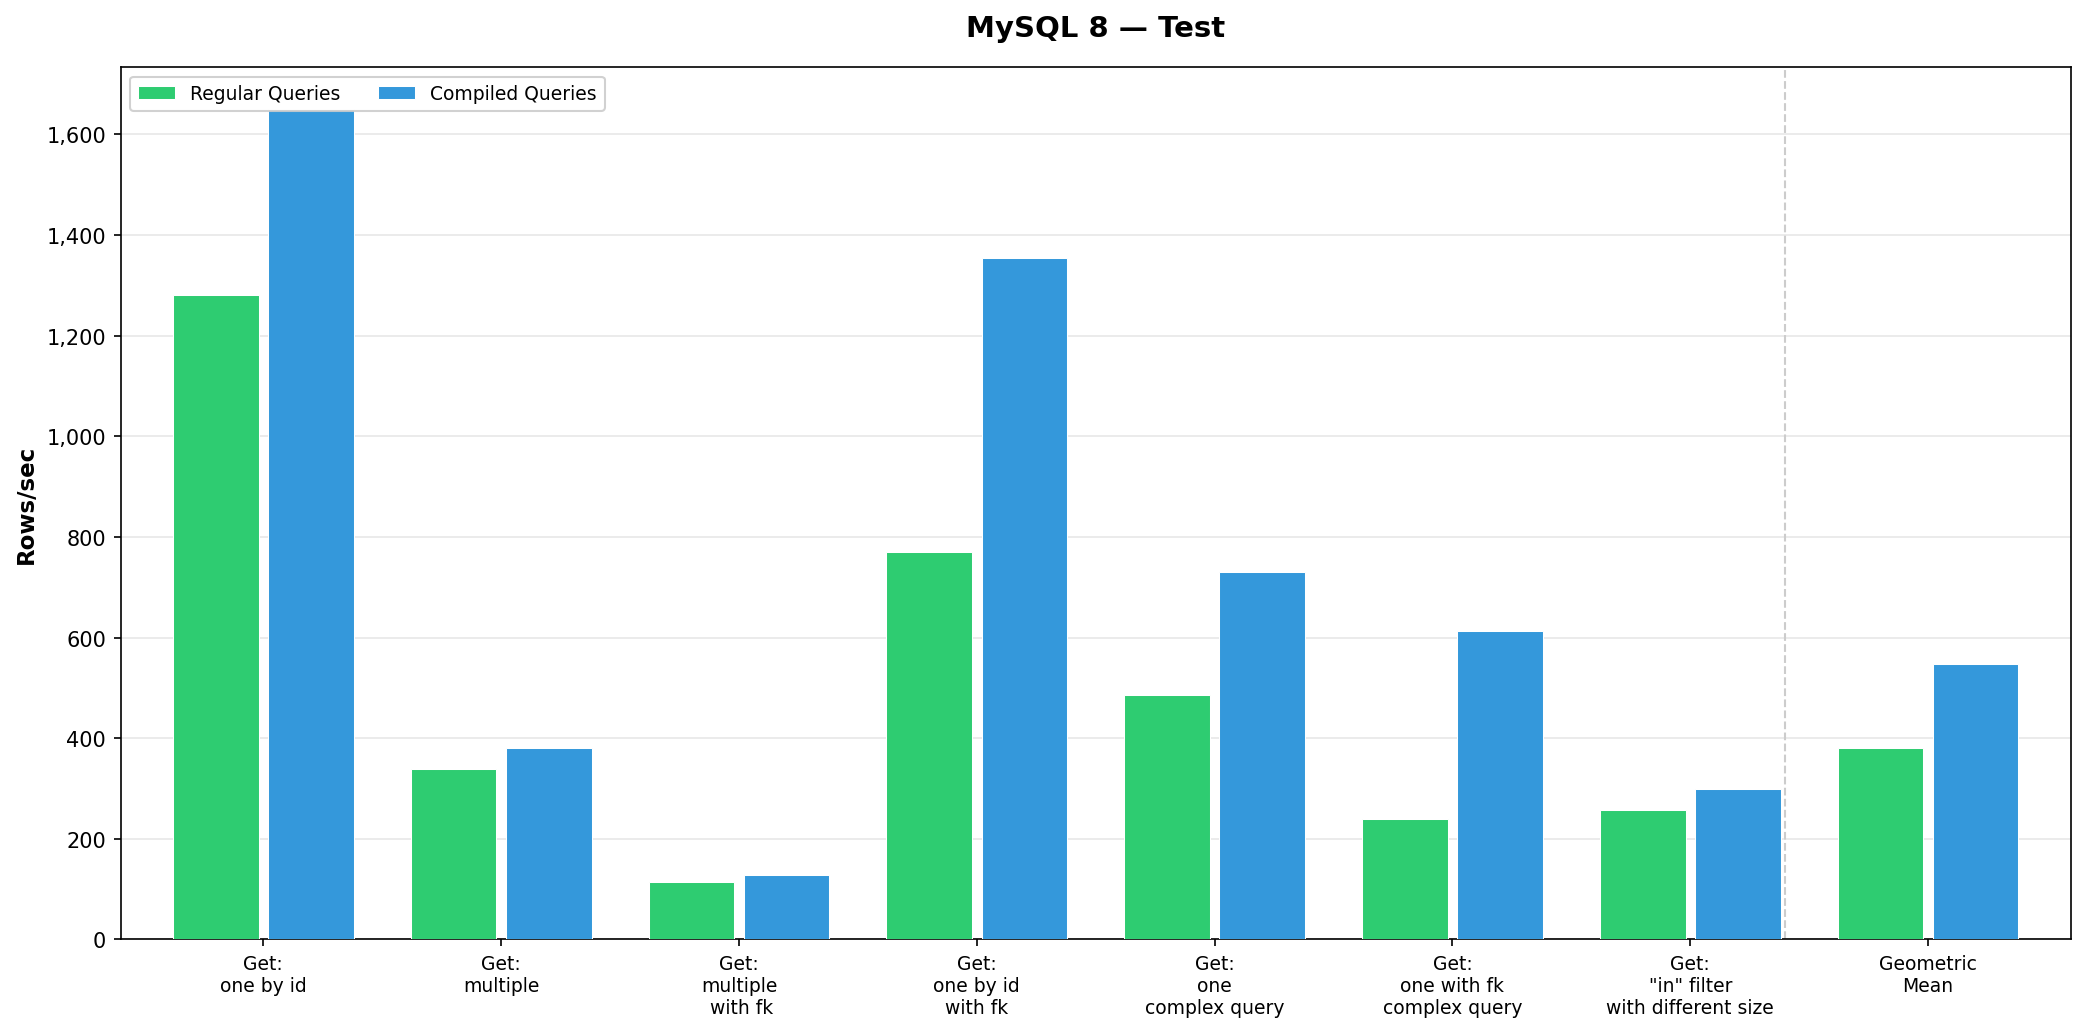
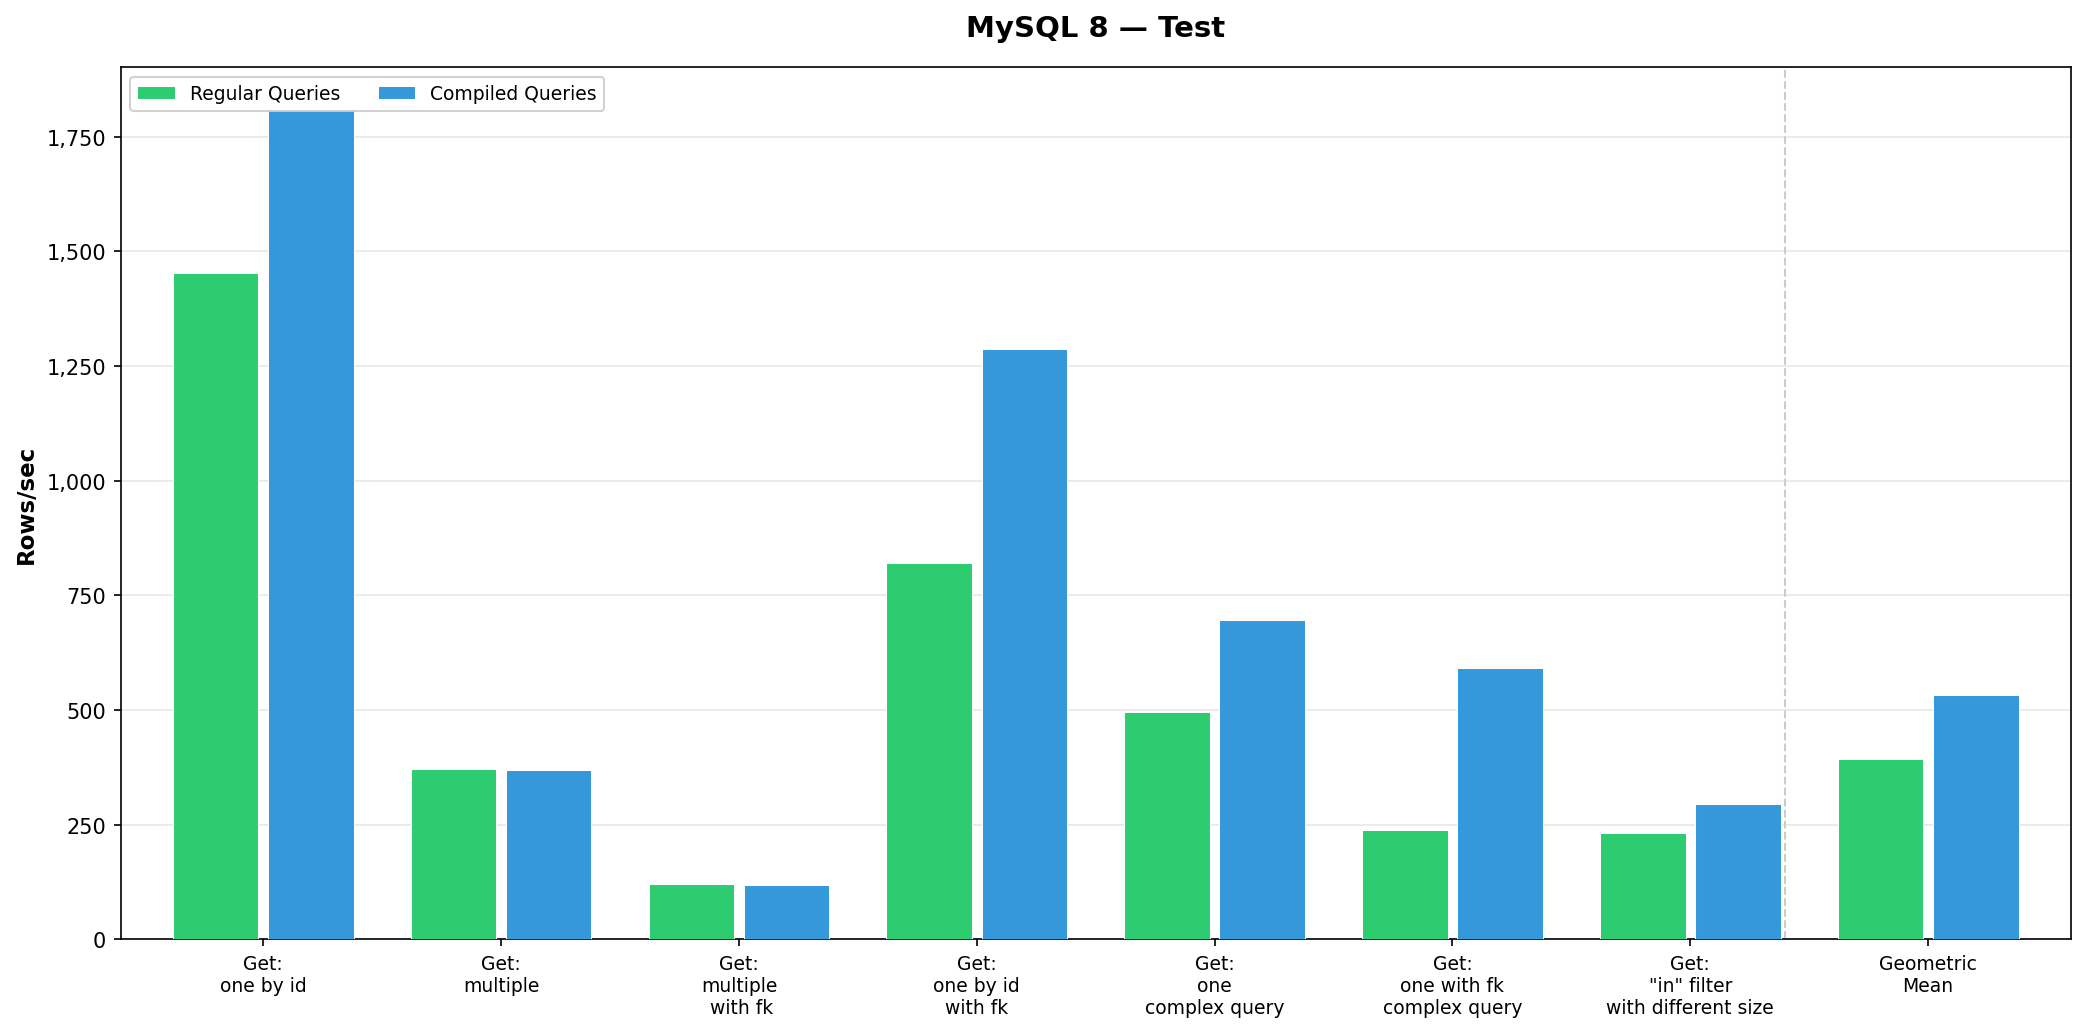
update benchmark results

diff --git a/README.md b/README.md
@@ -17,7 +17,7 @@ uv run -m bench prepared >>/tmp/sqlite_outfile1
 uv run generate_charts.py
 ```
 
-Benchmark results for [ebd33cb](https://github.com/RuslanUC/tortoise-orm/commit/ebd33cbe56335afd6e42cb9cd80f89076afba558):
+Benchmark results for [472f36e](https://github.com/RuslanUC/tortoise-orm/commit/472f36ef9ed93f01cfe14e00f9fa167cb5e22ff0):
 ![](images/sqlite_test1.png)
 ![](images/pg_test1.png)
 ![](images/mysql_test1.png)
